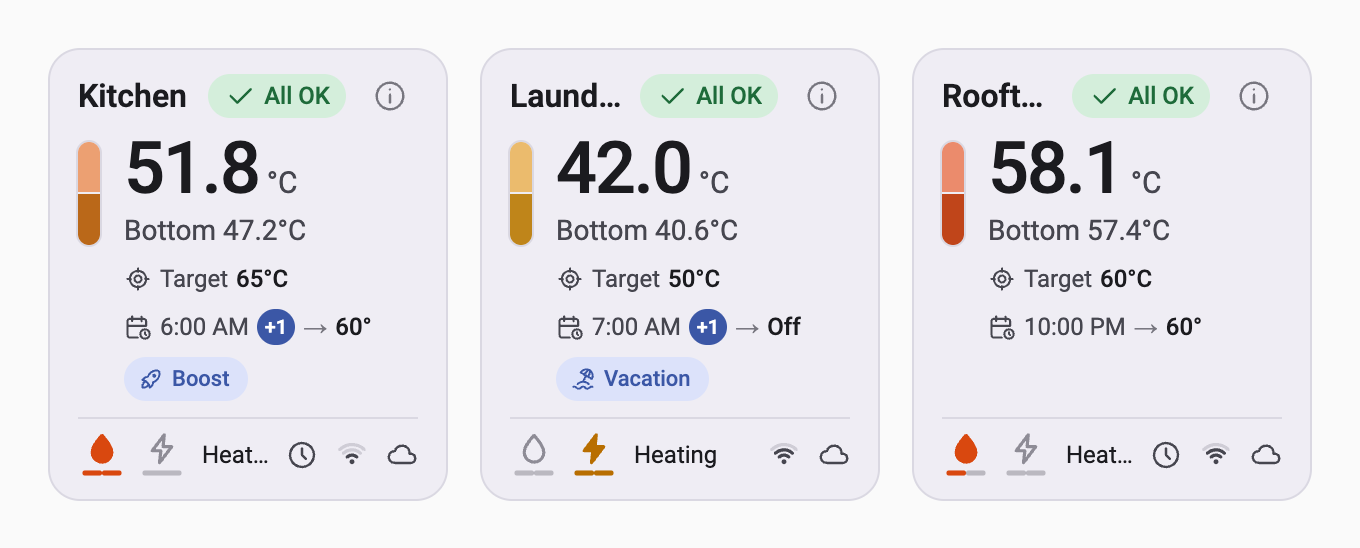
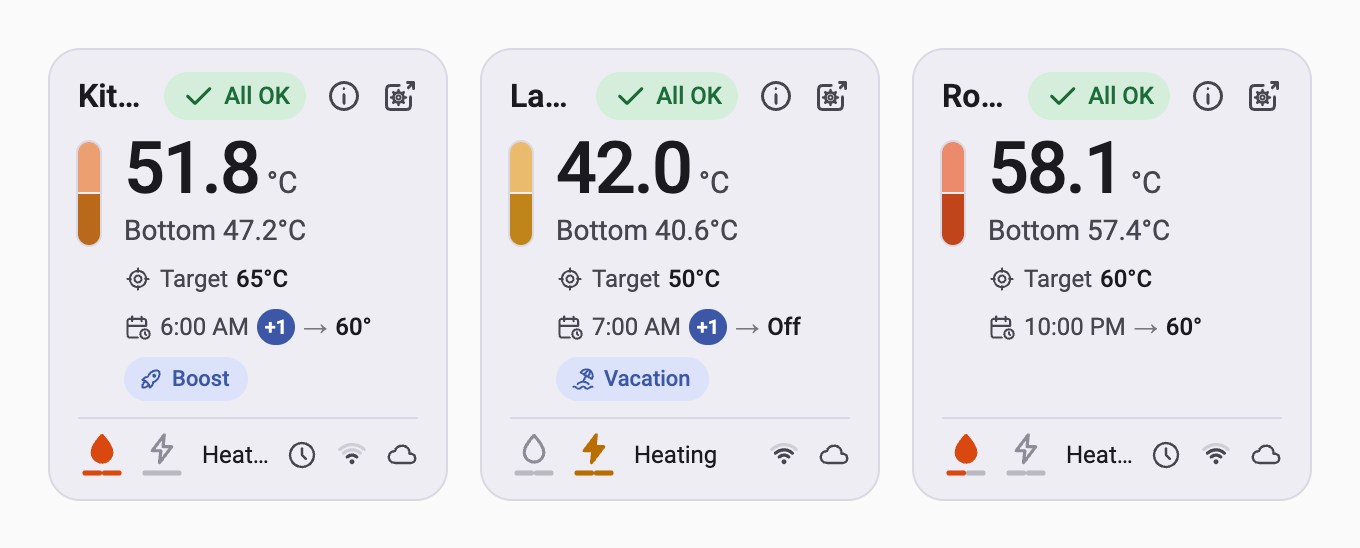
Add device configuration page action and release 0.6.2

Changed region(s): [[0.7103, 0.1241, 0.9574, 0.2172], [0.4015, 0.1241, 0.6176, 0.2172], [0.0926, 0.1241, 0.3088, 0.2172]]

diff --git a/custom_components/ezgeyser/www/ezgeyser-card.js b/custom_components/ezgeyser/www/ezgeyser-card.js
@@ -15,7 +15,7 @@ const PATHS = {
   warning: 'M12 3L2 21h20L12 3Zm0 6v5m0 3v.1',
   target: 'M12 3v3m0 12v3M3 12h3m12 0h3M19 12a7 7 0 1 1-14 0 7 7 0 0 1 14 0ZM15 12a3 3 0 1 1-6 0 3 3 0 0 1 6 0Z',
   offline: 'M3 3l18 18M2 8a16 16 0 0 1 4-2m4-1a16 16 0 0 1 12 3M5 12a11 11 0 0 1 5-2m5 0a11 11 0 0 1 4 2M8 16a6 6 0 0 1 8 0M12 20h.01',
-  info: 'M12 11v6m0-10v.1M22 12a10 10 0 1 1-20 0 10 10 0 0 1 20 0Z',
+  info: 'M12 11v6m0-10v.1M3 12a9 9 0 1 0 18 0a9 9 0 0 0-18 0',
   // Tabler calendar-time, calendar-off, beach and x (MIT), as in the Android app.
   calendarClock: 'M11.795 21H5a2 2 0 0 1-2-2V7a2 2 0 0 1 2-2h12a2 2 0 0 1 2 2v4M14 18a4 4 0 1 0 8 0a4 4 0 1 0-8 0m1-15v4M7 3v4m-4 4h16M18 16.496V18l1 1',
   calendarOff: 'M9 5h9a2 2 0 0 1 2 2v9m-.184 3.839A2 2 0 0 1 18 21H6a2 2 0 0 1-2-2V7a2 2 0 0 1 1.158-1.815M16 3v4M8 3v1m-4 7h7m4 0h5M3 3l18 18',
@@ -31,6 +31,27 @@ const PATHS = {
 };
 function icon(name) {
   return `<svg class="icon" viewBox="0 0 24 24" aria-hidden="true" fill="none" stroke="currentColor" stroke-width="1.8" stroke-linecap="round" stroke-linejoin="round"><path d="${PATHS[name]}"/></svg>`;
+}
+// The device-page glyph shares row 1's 18 px box and the info circle's 3..21 visual height.
+function devicePageIcon() {
+  const teeth = Array.from({length:8},(_,i) => {
+    const angle = i * Math.PI / 4;
+    const point = radius => `${(11 + radius * Math.cos(angle)).toFixed(4)} ${(13 + radius * Math.sin(angle)).toFixed(4)}`;
+    return `<path d="M${point(3.4)} ${point(4.85)}" stroke-width="1.8"/>`;
+  }).join('');
+  return `<svg class="icon" viewBox="0 0 24 24" aria-hidden="true" fill="none" stroke="currentColor" stroke-width="2" stroke-linecap="round" stroke-linejoin="round"><path d="M11.5 5H5.5a2.5 2.5 0 0 0-2.5 2.5v11A2.5 2.5 0 0 0 5.5 21h11a2.5 2.5 0 0 0 2.5-2.5V12.5"/><path d="M17.5 6.5 21 3M17 3h4v4"/><circle cx="11" cy="13" r="3.4" stroke-width="1.7"/><circle cx="11" cy="13" r="1.36" stroke-width="1.4"/>${teeth}</svg>`;
+}
+// The integration publishes this root URL in the device registry. Never infer an address from a name or entity ID.
+function devicePage(device) {
+  const match = /^http:\/\/([^/?#@:]+)\/$/.exec(device?.configuration_url || '');
+  if (!match) return null;
+  const host = match[1];
+  const octets = host.split('.');
+  const ipv4 = octets.length === 4 && octets.every(part => /^(0|[1-9]\d{0,2})$/.test(part) && Number(part) <= 255);
+  const local = ipv4 && (['10','127'].includes(octets[0]) || octets[0] === '172' && Number(octets[1]) >= 16 && Number(octets[1]) <= 31
+    || octets[0] === '192' && octets[1] === '168' || octets[0] === '169' && octets[1] === '254');
+  const mdns = host.length <= 253 && /^(?:[a-z0-9](?:[a-z0-9-]{0,61}[a-z0-9])?\.)+local$/.test(host);
+  return local || mdns ? {url:match[0],host} : null;
 }
 // The Wi-Fi level (the integration's enum states), the word the footer shows, and how many arcs are lit, as in the app.
 const WIFI = {excellent:['Excellent',3], good:['Good',2], fair:['Fair',1], weak:['Weak',0]};
@@ -202,7 +223,7 @@ const STYLE = `
 :host{display:block;--surface:#EFEDF4;--text:#1B1B1F;--secondary:#46464F;--tertiary:#77767F;--line:#DAD8E2;--off:#8E8C96;--ok:#1E6B3A;--ok-bg:#D4EEDB;--warn:#8A5100;--warn-bg:#FFDDB8;--primary:#3B57A6;--on-primary:#FFFFFF;--primary-bg:#DCE2FA;--dialog:#FBF8FF;--gas:#D9480F;--electric:#B86E00;--wifi-off:#CFCDD6;--line-h:18px;--chip-h:22px;--row-h:calc(2 * var(--line-h) + var(--chip-h) + 2 * 6px)}
 :host([dark]){--surface:#202024;--text:#E5E1E6;--secondary:#C6C5CF;--tertiary:#908F99;--line:#34343A;--off:#77767F;--ok:#9AD6A9;--ok-bg:#1E3826;--warn:#FFB95E;--warn-bg:#4A2B00;--primary:#B4C5FF;--on-primary:#13285E;--primary-bg:#2B3A66;--dialog:#2A2A2F;--gas:#FF8F57;--electric:#F2B33D;--wifi-off:#46454C}
 *{box-sizing:border-box}ha-card{display:block;background:var(--ha-card-background,var(--surface));color:var(--text);border:1px solid var(--ha-card-border-color,var(--line));border-radius:var(--ha-card-border-radius,16px);box-shadow:var(--ha-card-box-shadow,none);overflow:hidden}ha-card,.sample{font-family:var(--paper-font-body1_-_font-family,Roboto,Arial,sans-serif)}
-.card{padding:12px 14px 10px;outline:none}.entity-button{font:inherit;color:inherit;background:none;border:0;padding:0;text-align:inherit;cursor:pointer}.entity-button:focus-visible{outline:2px solid var(--primary);outline-offset:2px;border-radius:3px}.card:focus-visible{outline:3px solid var(--primary);outline-offset:-3px;border-radius:16px}.header{display:flex;align-items:center;gap:8px;min-width:0;height:22px}.name{margin:0;flex:1;min-width:0;font-size:16px;font-weight:600;overflow:hidden;text-overflow:ellipsis;white-space:nowrap}.badge{display:inline-flex;align-items:center;gap:4px;padding:3px 8px;border-radius:20px;max-width:60%;font-size:12px;font-weight:500;color:var(--ok);background:var(--ok-bg)}.badge span{overflow:hidden;text-overflow:ellipsis;white-space:nowrap}.badge.warning{color:var(--warn);background:var(--warn-bg)}.icon{width:16px;height:16px;flex:none}.details-button{border:0;background:none;color:var(--tertiary);padding:0;min-width:28px;min-height:28px;display:grid;place-items:center;border-radius:50%;cursor:pointer}.details-button:focus-visible{outline:2px solid var(--primary)}
+.card{padding:12px 14px 10px;outline:none}.entity-button{font:inherit;color:inherit;background:none;border:0;padding:0;text-align:inherit;cursor:pointer}.entity-button:focus-visible{outline:2px solid var(--primary);outline-offset:2px;border-radius:3px}.card:focus-visible{outline:3px solid var(--primary);outline-offset:-3px;border-radius:16px}.header{display:flex;align-items:center;gap:10px;min-width:0;height:22px}.name{margin:0;flex:1;min-width:0;font-size:16px;font-weight:600;overflow:hidden;text-overflow:ellipsis;white-space:nowrap}.badge{display:inline-flex;align-items:center;gap:4px;padding:3px 8px;border-radius:20px;max-width:60%;font-size:12px;font-weight:500;color:var(--ok);background:var(--ok-bg)}.badge span{overflow:hidden;text-overflow:ellipsis;white-space:nowrap}.badge.warning{color:var(--warn);background:var(--warn-bg)}.icon{width:16px;height:16px;flex:none}.header .icon{width:18px;height:18px;stroke-width:2}.details-button{position:relative;flex:none;width:18px;height:22px;border:0;background:none;color:var(--secondary);padding:0;display:grid;place-items:center;border-radius:50%;cursor:pointer}.details-button::before{content:"";position:absolute;z-index:0;width:48px;height:48px;left:50%;top:50%;transform:translate(-50%,-50%);border-radius:50%}.details-button .icon,.header .name,.header .badge{position:relative;z-index:1}.details-button:focus-visible{outline:2px solid var(--primary);outline-offset:3px}.details-button[aria-disabled="true"]{opacity:.38;cursor:default}.details-button[aria-disabled="true"]::before{pointer-events:none}
 .temperatures{display:grid;grid-template-columns:minmax(0,1fr) auto;column-gap:10px;row-gap:8px;align-items:center;min-height:var(--row-h);margin:12px 0 8px}.left{display:flex;align-items:center;align-self:stretch;gap:12px;min-width:0}.tank{width:11px;flex:none;align-self:stretch;border-radius:6px;overflow:hidden;display:flex;flex-direction:column;box-shadow:0 0 0 1px var(--line)}.half{height:50%;flex:1}.half+.half{border-top:1px solid var(--surface)}.half.fault{background:repeating-linear-gradient(135deg,var(--off) 0 3px,var(--surface) 3px 5px)!important}.readings{min-width:0}.reading{display:flex;align-items:baseline;gap:4px;white-space:nowrap;line-height:.75}.number{font-size:36px;font-weight:500;letter-spacing:-1px;font-variant-numeric:tabular-nums}.unit{font-size:15px;color:var(--secondary)}.secondary{display:block;font-size:14px;line-height:.95;white-space:nowrap;color:var(--secondary);margin-top:11px}.fault-text{color:var(--warn)}
 .right{display:flex;flex-direction:column;align-items:flex-end;justify-content:center;gap:6px;min-width:0;font-size:12px;color:var(--secondary);text-align:right}.line{display:inline-flex;align-items:center;justify-content:flex-end;gap:4px;max-width:100%;min-height:var(--line-h);white-space:nowrap;overflow:hidden}.line .icon{width:14px;height:14px}.value{font-weight:500;color:var(--text)}.quiet{color:var(--tertiary)}.day-badge{display:inline-grid;place-items:center;flex:none;height:18px;min-width:18px;padding:0 4px;border-radius:9px;background:var(--primary);color:var(--on-primary);font-size:10px;font-weight:600;line-height:1}.modes{display:flex;gap:6px;flex:none}.chip{display:inline-flex;align-items:center;justify-content:center;gap:4px;height:var(--chip-h);min-width:var(--chip-h);border-radius:11px;padding:0 9px 0 7px;font-size:11px;font-weight:500;white-space:nowrap;background:var(--primary-bg);color:var(--primary)}.chip .icon{width:13px;height:13px}.chips-icons .chip{width:var(--chip-h);padding:0}.chips-icons .chip span{display:none}
 .footer{border-top:1px solid var(--line);padding-top:6px;display:flex;align-items:center;gap:8px;min-height:31px;font-size:12px;color:var(--secondary);white-space:nowrap}.start{display:flex;align-items:center;gap:8px;flex:1;min-width:0}.sources{display:flex;gap:6px;flex:none}.heat-control{position:relative;width:24px;height:24px;flex:none}.heat-buttons{position:absolute;inset:0;display:flex}.heat-button{flex:1;min-width:0;height:100%}.heat{width:24px;height:24px;color:var(--off);overflow:visible}.glyph{fill:none;stroke:currentColor;stroke-width:2.3;stroke-linejoin:round}.on .glyph{fill:currentColor}.gas.on{color:var(--gas)}.electric.on{color:var(--electric)}.segment{fill:none;stroke:var(--off);opacity:.55;stroke-width:2.6;stroke-linecap:round}.gas .lit{stroke:var(--gas);opacity:1}.electric .lit{stroke:var(--electric);opacity:1}.activity{flex:none;overflow:hidden;text-overflow:ellipsis}.activity.heating{color:var(--text)}.timer,.wifi,.cloud,.clock{display:inline-flex;align-items:center;gap:4px;flex:none}.wifi .icon{width:18px;height:18px}.status{display:flex;align-items:center;gap:8px;flex:none;margin-left:auto}.warn{color:var(--warn)}.stale .number,.stale .unit,.stale .secondary{color:var(--tertiary)}.stale .tank{opacity:.45}.stale .right{color:var(--tertiary)}
@@ -225,6 +246,8 @@ class EzGeyserCard extends HTMLElement {
     this._remeasure = () => { this._sampleSize = null; this._fitKey = null; this._fitLayout(); };
     this._dialog = this.shadowRoot.querySelector('dialog');
     this._card.addEventListener('click', e => {
+      // Native links keep browser keyboard, context-menu and long-press behavior, separate from HA details.
+      if (e.target.closest('[data-action="device-page"]')) return;
       if (e.target.closest('[data-action="schedule"]')) return this._openDetails();
       const button = e.target.closest('[data-entity]');
       if (button) this._moreInfo(button.dataset.entity);
@@ -432,6 +455,8 @@ class EzGeyserCard extends HTMLElement {
     if (config.device_id === '') badge = 'Select geyser';
     if (unreachable) badge = 'Unreachable';
     const warning = missing || unreachable || unknown || issues.length > 0;
+    const page = devicePage(hass.devices?.[this._deviceId]);
+    this._devicePage = !missing && !unreachable ? page : null;
     const name = config.name || hass.devices?.[this._deviceId]?.name_by_user || hass.devices?.[this._deviceId]?.name || this._ids.top?.replace(/^sensor\./,'').replace(/_temperature_top$/,'').replaceAll('_',' ') || 'Geyser';
     const unit = shown[main]?.attributes.unit_of_measurement || '°C';
     const target = numeric(shown.target), noTarget = celsius(shown.target);
@@ -459,7 +484,7 @@ class EzGeyserCard extends HTMLElement {
     const modes = (on('boost') ? chip('boost','rocket','Boost') : '') + (on('vacation') ? chip('vacation','beach','Vacation') : '');
     const badgeLabel = issues.length && badge === badgeText(issues) ? issues.length > 1 ? `${badge}: ${issues.join(', ')}` : issues[0] : badge;
     const links = linkItems(link);
-    const body = `<div class="header"><h2 class="name" title="${escape(name)}">${escape(name)}</h2><div class="badge ${warning ? 'warning' : ''}" role="img" aria-label="${escape(badgeLabel)}" title="${escape(badgeLabel)}">${icon(unreachable ? 'offline' : warning ? 'warning' : 'check')}<span>${escape(badge)}</span></div><button class="details-button entity-button" data-entity="${main}" aria-label="Open main temperature details">${icon('info')}</button></div>
+    const body = `<div class="header"><h2 class="name" title="${escape(name)}">${escape(name)}</h2><div class="badge ${warning ? 'warning' : ''}" role="img" aria-label="${escape(badgeLabel)}" title="${escape(badgeLabel)}">${icon(unreachable ? 'offline' : warning ? 'warning' : 'check')}<span>${escape(badge)}</span></div><button class="details-button entity-button" data-entity="${main}" aria-label="Open main temperature details">${icon('info')}</button><a class="details-button device-page-button" data-action="device-page" aria-label="Open device page in browser" title="${escape(page ? `Open ${page.host}` : 'Device address unavailable')}"${this._devicePage ? ` href="${escape(page.url)}" target="_blank" rel="noopener noreferrer"` : ' role="link" aria-disabled="true" tabindex="-1"'}>${devicePageIcon()}</a></div>
       <div class="temperatures"><div class="left"><div class="tank" role="group" aria-label="${escape(tankLabel)}" title="${escape(tankLabel)}"><button class="half entity-button ${top === null ? 'fault' : ''}" data-entity="top" aria-label="Open top temperature details" style="background:${colors[0]}"></button><button class="half entity-button ${bottom === null ? 'fault' : ''}" data-entity="bottom" aria-label="Open bottom temperature details" style="background:${colors[1]}"></button></div>
       <div class="readings"><button class="reading entity-button" data-entity="${main}" aria-label="Open ${main} temperature details"><span class="number ${number(main) === null ? 'fault-text' : ''}">${escape(display(main))}</span><span class="unit">${escape(unit)}</span></button><button data-entity="${other}" aria-label="Open ${other} temperature details" class="secondary entity-button ${number(other) === null ? 'fault-text' : ''}">${other === 'top' ? 'Top' : 'Bottom'} ${escape(display(other))}${escape(shown[other]?.attributes.unit_of_measurement || '°C')}</button></div></div>
       <div class="right">${unreachable ? '<span class="line">Last known values</span>' : `<button class="line entity-button" data-entity="target" aria-label="Open target temperature details">${targetLine}</button>${scheduleLine(this._schedule,Boolean(states.next_event),showSource)}${modes ? `<div class="modes">${modes}</div>` : ''}`}</div></div>

diff --git a/assets/screenshots/harness.html b/assets/screenshots/harness.html
@@ -87,7 +87,8 @@ async function main() {
   const stage = document.getElementById('stage');
   stage.style.gridTemplateColumns = scene.widths ? 'max-content' : scene.columns.map(w => `${w}px`).join(' ');
   const live = Object.assign({}, ...Object.keys(GEYSERS).map(id => states(id, GEYSERS[id].values)));
-  const hass = {states:live, locale:{language:'en'}, config:{unit_system:{temperature:'°C'}}, themes:{darkMode:scene.dark}, callWS:async () => registry};
+  const devices = Object.fromEntries(Object.keys(GEYSERS).map((id,i) => [`device-${id}`, {name:GEYSERS[id].name,configuration_url:`http://192.168.1.${50+i}/`}]));
+  const hass = {states:live, devices, locale:{language:'en'}, config:{unit_system:{temperature:'°C'}}, themes:{darkMode:scene.dark}, callWS:async () => registry};
   const cards = scene.cards.map((id, i) => {
     const card = document.createElement('ezgeyser-card');
     if (scene.widths) card.style.width = `${scene.widths[i]}px`;

diff --git a/tests/test_init.py b/tests/test_init.py
@@ -11,7 +11,7 @@ from pytest_homeassistant_custom_component.common import MockConfigEntry, async_
 from pytest_homeassistant_custom_component.test_util.aiohttp import AiohttpClientMocker
 
 from homeassistant.config_entries import ConfigEntryState
-from homeassistant.const import STATE_OFF, STATE_ON, STATE_UNAVAILABLE, STATE_UNKNOWN
+from homeassistant.const import CONF_HOST, STATE_OFF, STATE_ON, STATE_UNAVAILABLE, STATE_UNKNOWN
 from homeassistant.core import HomeAssistant
 from homeassistant.helpers import device_registry as dr, entity_registry as er
 from homeassistant.util import dt as dt_util
@@ -104,6 +104,7 @@ async def test_setup_creates_one_named_device_with_twenty_prefixed_entities(
     assert (device.name, device.manufacturer, device.model, device.sw_version) == (
         "Kitchen", "KytherTek", "Hybrid geyser · v2", "1.4.0",
     )  # fmt: skip
+    assert device.configuration_url == f"http://{HOST}/"
     assert (dr.CONNECTION_NETWORK_MAC, MAC) in device.connections
     entities = er.async_entries_for_device(er.async_get(hass), device.id, include_disabled_entities=True)
     assert {entity.entity_id for entity in entities} == set(ENTITY_IDS) | RAW_ENTITY_IDS
@@ -120,6 +121,29 @@ async def test_setup_creates_one_named_device_with_twenty_prefixed_entities(
         f"http://{HOST}/quickStatus",
         f"http://{HOST}/api/schedules",
     ]
+
+
+async def test_device_page_address_follows_a_host_change_after_reload(
+    hass: HomeAssistant, entry: MockConfigEntry, geyser: AiohttpClientMocker
+) -> None:
+    await _setup(hass, entry)
+    registry = dr.async_get(hass)
+    device = registry.async_get_device_by_identifier((DOMAIN, MAC), entry.entry_id)
+    assert device is not None
+    device_id = device.id
+    new_host = "192.168.50.77"
+    geyser.get(f"http://{new_host}/data", content=DATA)
+    geyser.get(f"http://{new_host}/quickStatus", content=QUICK_STATUS)
+    geyser.get(f"http://{new_host}/api/schedules", content=b"[]")
+    hass.config_entries.async_update_entry(entry, data={**entry.data, CONF_HOST: new_host})
+
+    assert await hass.config_entries.async_reload(entry.entry_id)
+    await hass.async_block_till_done()
+
+    device = registry.async_get_device_by_identifier((DOMAIN, MAC), entry.entry_id)
+    assert device is not None
+    assert device.id == device_id
+    assert device.configuration_url == f"http://{new_host}/"
 
 
 async def test_setup_retries_while_the_geyser_does_not_answer(

diff --git a/custom_components/ezgeyser/entity.py b/custom_components/ezgeyser/entity.py
@@ -1,6 +1,6 @@
 """The base of every ezGeyser entity: one device per geyser, identified by its MAC address."""
 
-from homeassistant.const import CONF_MAC
+from homeassistant.const import CONF_HOST, CONF_MAC
 from homeassistant.helpers.device_registry import CONNECTION_NETWORK_MAC, DeviceInfo
 from homeassistant.helpers.update_coordinator import CoordinatorEntity
 
@@ -26,4 +26,5 @@ class EzGeyserEntity(CoordinatorEntity[EzGeyserCoordinator]):
             model=identity.model,
             sw_version=identity.sw_version,
             hw_version=identity.hw_version,
+            configuration_url=f"http://{coordinator.config_entry.data[CONF_HOST]}/",
         )

diff --git a/README.md b/README.md
@@ -168,7 +168,9 @@ setup errors. Installations without Home Assistant's `frontend` skip the card.
 - **Loading entities**, **Registry unavailable** or **Check entities:** the card cannot find the selected geyser's
   entities.
 - **Selecting** a reading, a tank half, a mode, a footer item, or the left or right half of the flame or bolt opens
-  that entity's details and history. ⓘ opens the main temperature.
+  that entity's details and history. ⓘ opens the main temperature. The box-and-gear action beside it opens the geyser's
+  local web page in a new browser tab; its tooltip shows the address. It is dimmed and disabled while unreachable or
+  while its address is unavailable. Your browser must be on the geyser's network to reach that page.
 
 Cards are all the same height, follow Home Assistant's light or dark mode, fit their column, and work in Sections and
 Masonry views. Text never shrinks or wraps: when a card is too narrow, the modes show as icons, then the Wi-Fi word,

diff --git a/CHANGELOG.md b/CHANGELOG.md
@@ -1,7 +1,11 @@
 # Changelog
 
-## Unreleased
+## 0.6.2 (2026-11-11)
 
+- Card: add a top-right action that opens the geyser's embedded configuration page at `http://<device address>/`
+  in a new browser tab. It uses the current device-registry address, shows that address in its tooltip, and is
+  dimmed and disabled while unreachable. The custom gear-and-arrow icon matches the info icon's height and stroke,
+  with 18 px icon boxes, 10 px gaps and expanded 48 px touch targets.
 - Card: the Wi-Fi icon sits 2 units higher in its 24-unit box, so its dot rests on the level word's baseline, level
   with the cloud; it sat low. The same in the Android app.
 
